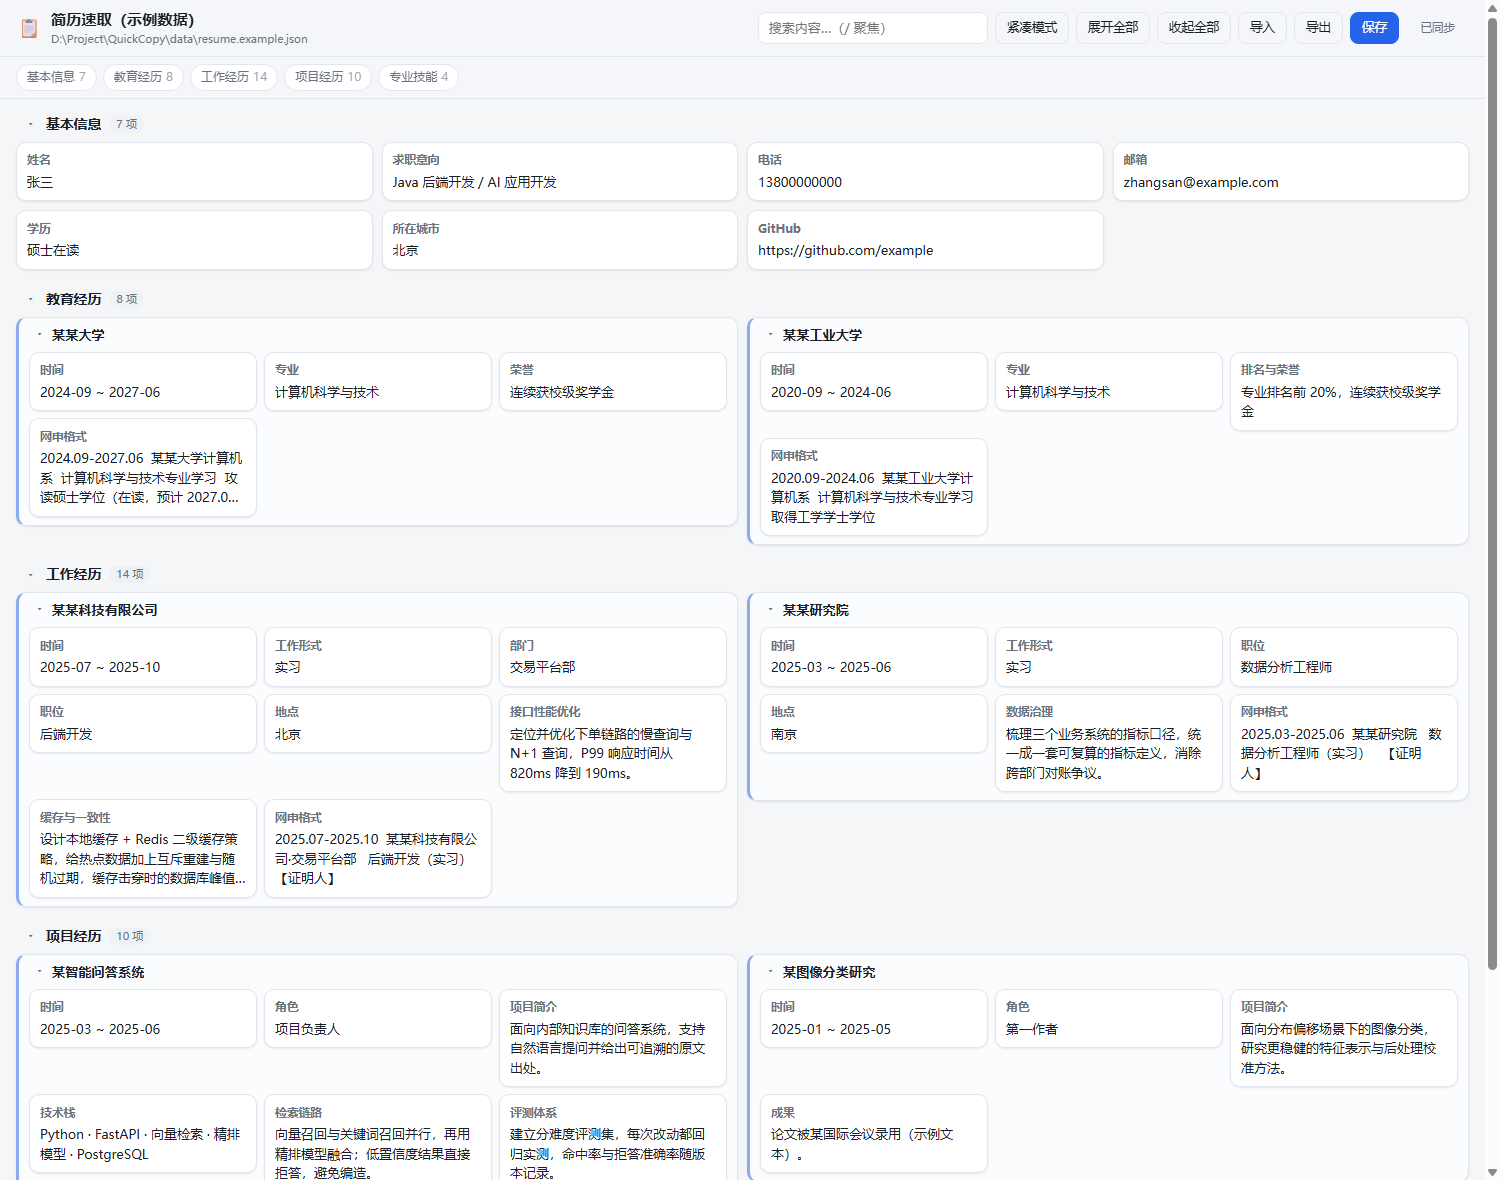
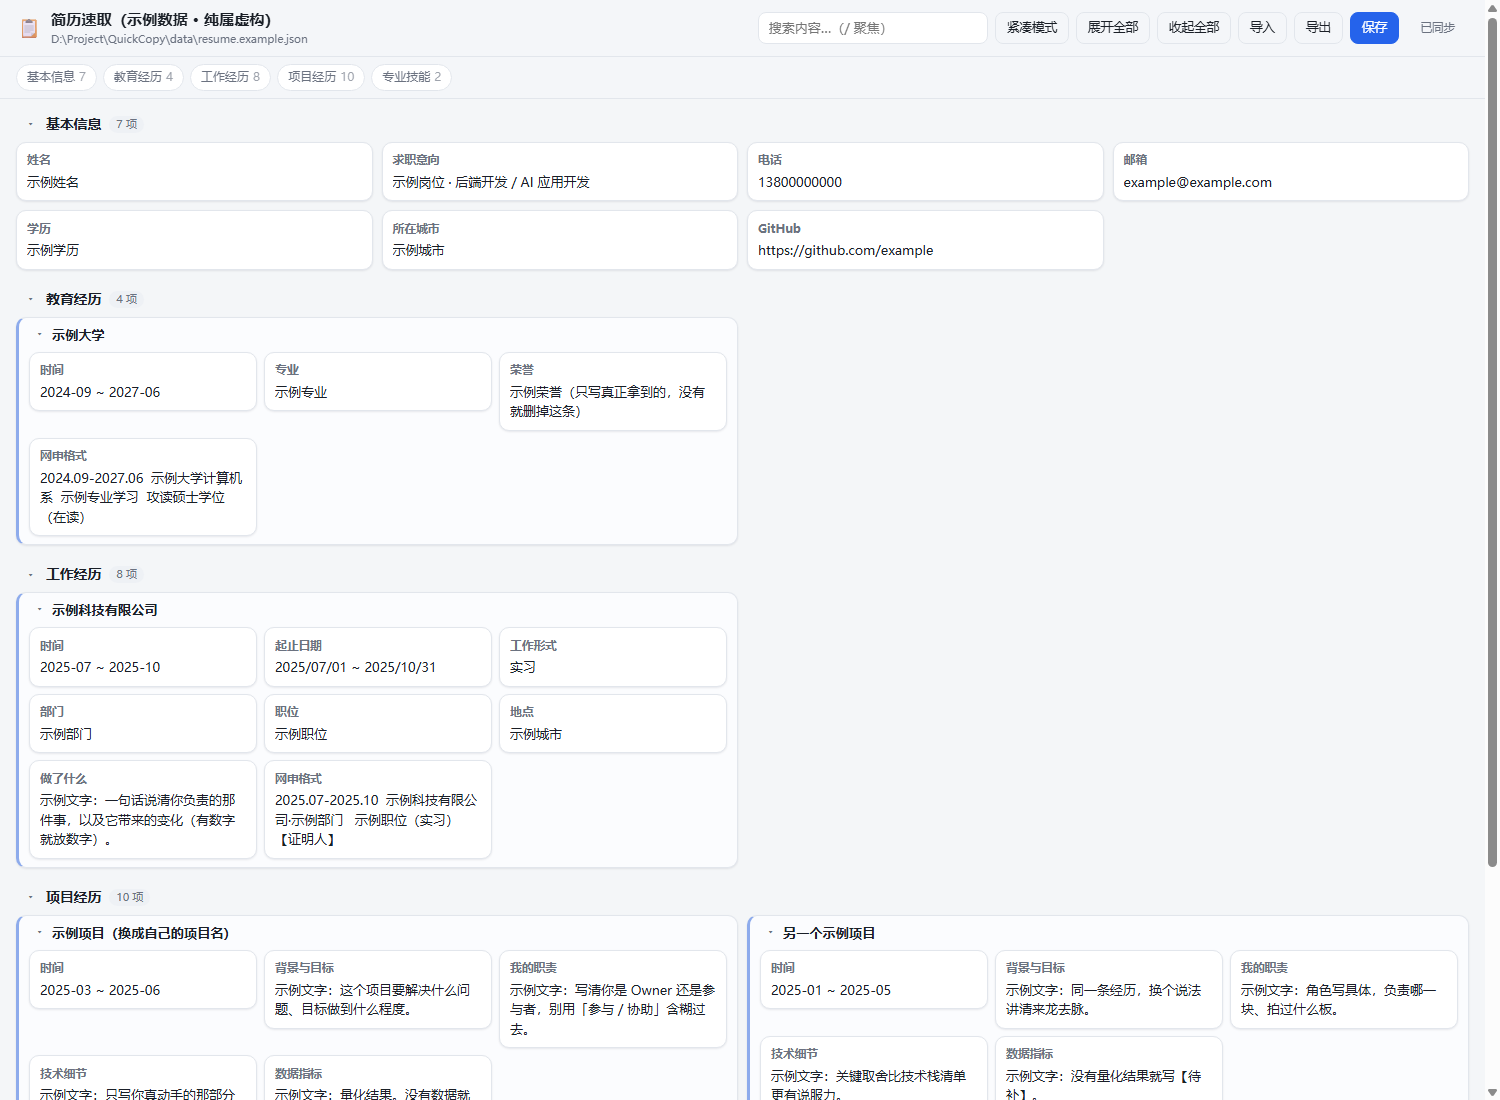
示例数据改为占位符风格（项目用四段式示例字段），同步更新配图、测试断言与说明

diff --git a/test/core.test.js b/test/core.test.js
@@ -175,7 +175,7 @@ test('data/resume.example.json 结构合法且 id 唯一', () => {
 
   const titles = data.sections.map((s) => s.title);
   assert.deepEqual(titles, ['基本信息', '教育经历', '工作经历', '项目经历', '专业技能']);
-  assert.ok(Core.countNodes(data) > 40, '示例数据应该有足够多的条目');
+  assert.ok(Core.countNodes(data) > 25, '示例数据应该有足够多的条目');
 });
 
 test('示例数据能完整往返（写入 → 读回 → 结构不变）', () => {

diff --git a/README.md b/README.md
@@ -7,7 +7,12 @@
 
 ![界面示意：分类导航 + 卡片网格](docs/screenshot.png)
 
-> 仓库里带的是**示例数据**（`data/resume.example.json`，人名与单位均为虚构）。
+> 仓库里带的是**示例数据**（`data/resume.example.json`）：人名、单位、数字全是占位符
+> （「示例姓名」「示例大学」「示例科技有限公司」），截图里的内容也是它渲染出来的。
+> 示例里那条项目刻意按 **背景与目标 → 我的职责 → 技术细节 → 数据指标** 四段式排下来——
+> 这套结构的作用是逼你把话讲清楚，边界是**只放大、不虚构**，所以字段提示语写成了
+> 「没有数据就老实写 `【待补】`，别编」。
+>
 > 你自己的简历请放在 `data/resume.json`——该文件已被 `.gitignore` 排除，不会进入 Git 历史。
 
 ## 快速开始
